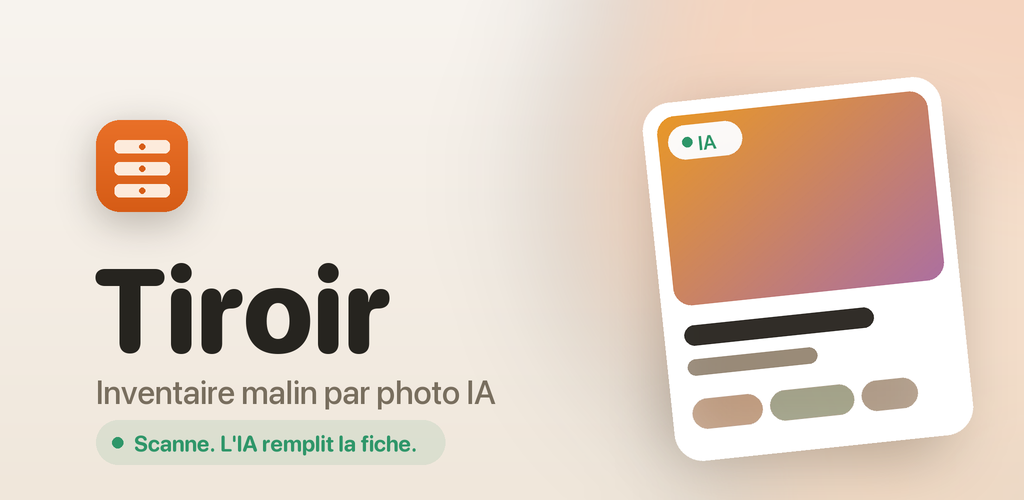
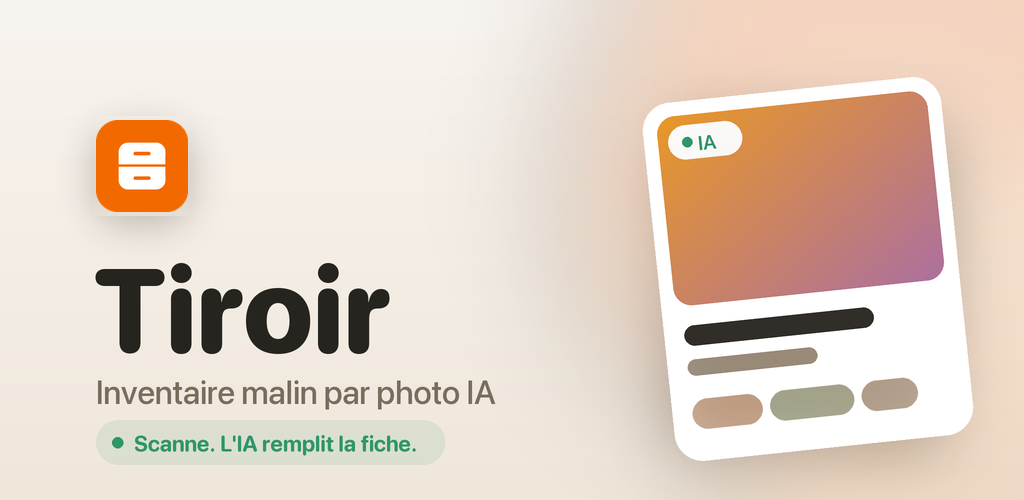
feat(marque): nouvelle icône, une commode à deux tiroirs
L'ancienne icône était un rendu 3D : superbe à 1024 px, une tache à
29 pt — la taille à laquelle Réglages et Spotlight l'affichent
réellement. Elle ne survivait pas non plus au masque rond d'Android,
qui rogne bien plus que le squircle iOS.

Le nouveau mannequin obéit à deux règles :

  - tout tient dans le CERCLE INSCRIT, pas dans le carré. Rond,
    squircle, trèfle : ce qui déborde est perdu quelque part ;

  - la fente entre les deux tiroirs est un VIDE laissant voir le fond,
    pas un trait posé dessus. Un trait fin disparaît à la réduction ;
    un vide ronge ses voisins et reste lisible jusqu'au bout.

Deux tiroirs et non trois : à petite taille, trois barres horizontales
redeviennent le pictogramme « menu », ou celui d'une base de données.

Le premier plan Android est dessiné à 72/108 de la taille iOS. Ce n'est
pas une marge de sécurité arbitraire mais le rapport exact qui donne
aux deux plateformes la même taille apparente une fois le masque
appliqué. S'ajoute la variante monochrome (Android 13+), dont les
poignées sont de vrais trous : le système ne lit que le canal alpha.

Le splash et le visuel Play sont RETOUCHÉS, pas régénérés — un point
vert isolé vit sous le mannequin du splash, et le dégradé du visuel
Play ne se reconstitue pas de mémoire.

Tout sort d'un seul script, qui est désormais la source de vérité :
retoucher une icône à la main la désynchroniserait des dix autres.

Changed region(s): [[0.0938, 0.24, 0.1875, 0.45]]

diff --git a/web/pages/_document.tsx b/web/pages/_document.tsx
@@ -29,10 +29,14 @@ export default class MyDocument extends Document<{ locale: string }> {
           <meta name="theme-color" content="#F26900" />
           <meta name="color-scheme" content="light dark" />
 
-          {/* Favicon / PWA (optionnel, mets tes fichiers si dispo) */}
-          {/* <link rel="icon" href="/favicon.ico" /> */}
-          {/* <link rel="apple-touch-icon" href="/apple-touch-icon.png" /> */}
-          {/* <link rel="manifest" href="/manifest.webmanifest" /> */}
+          {/* Favicon. Le .ico embarque 16 → 256 px : les onglets, la barre
+              des tâches et les raccourcis ne piochent pas la même taille,
+              et un .ico à résolution unique se fait redimensionner par le
+              système, qui le fait mal. Le SVG passe devant quand le
+              navigateur le sait — il reste net à toutes les densités. */}
+          <link rel="icon" href="/favicon.ico" sizes="any" />
+          <link rel="icon" href="/logo-tiroir.svg" type="image/svg+xml" />
+          <link rel="apple-touch-icon" href="/apple-touch-icon.png" />
         </Head>
         <body>
           {/* Pas de Tamagui ici */}

diff --git a/web/components/layout/HeaderTiroirWeb.tsx b/web/components/layout/HeaderTiroirWeb.tsx
@@ -202,7 +202,7 @@ export default function HeaderTiroirWeb() {
           {/* Logo */}
           <Link href="/" legacyBehavior passHref>
             <a className="ti-logo">
-              <img className="ti-logo__box" src="/icons/app-icon-v2.png" alt="" width={32} height={32} />
+              <img className="ti-logo__box" src="/icons/app-icon.png" alt="" width={32} height={32} />
               <strong className="ti-logo__text">TiROiR</strong>
             </a>
           </Link>
@@ -301,7 +301,7 @@ export default function HeaderTiroirWeb() {
           <div className="ti-mobile-menu__header">
             <Link href="/" legacyBehavior passHref>
               <a className="ti-logo" onClick={() => setMenuOpen(false)}>
-                <img className="ti-logo__box" src="/icons/app-icon-v2.png" alt="" width={32} height={32} />
+                <img className="ti-logo__box" src="/icons/app-icon.png" alt="" width={32} height={32} />
                 <strong className="ti-logo__text">TiROiR</strong>
               </a>
             </Link>

diff --git a/web/pages/inscription.tsx b/web/pages/inscription.tsx
@@ -56,7 +56,7 @@ export default function Inscription() {
         <div style={s.card}>
           <div style={s.logo}>
             {/* eslint-disable-next-line @next/next/no-img-element */}
-            <img src="/icons/app-icon-v2.png" alt="" width={36} height={36} style={{ borderRadius: 10 }} />
+            <img src="/icons/app-icon.png" alt="" width={36} height={36} style={{ borderRadius: 10 }} />
             <strong style={s.logoText}>Tiroir</strong>
           </div>
           <h1 style={s.title}>Créer un compte</h1>

diff --git a/web/pages/login.tsx b/web/pages/login.tsx
@@ -46,7 +46,7 @@ export default function Login() {
       <div style={s.card}>
         <div style={s.logo}>
           {/* eslint-disable-next-line @next/next/no-img-element */}
-          <img src="/icons/app-icon-v2.png" alt="" width={36} height={36} style={{ borderRadius: 10 }} />
+          <img src="/icons/app-icon.png" alt="" width={36} height={36} style={{ borderRadius: 10 }} />
           <strong style={s.logoText}>Tiroir</strong>
         </div>
         <h1 style={s.title}>Connexion</h1>

diff --git a/web/pages/nouveau-mot-de-passe.tsx b/web/pages/nouveau-mot-de-passe.tsx
@@ -87,7 +87,7 @@ export default function NouveauMotDePasse() {
         <div style={s.card}>
           <div style={s.logo}>
             {/* eslint-disable-next-line @next/next/no-img-element */}
-            <img src="/icons/app-icon-v2.png" alt="" width={36} height={36} style={{ borderRadius: 10 }} />
+            <img src="/icons/app-icon.png" alt="" width={36} height={36} style={{ borderRadius: 10 }} />
             <strong style={s.logoText}>Tiroir</strong>
           </div>
 

diff --git a/web/pages/mot-de-passe-oublie.tsx b/web/pages/mot-de-passe-oublie.tsx
@@ -36,7 +36,7 @@ export default function MotDePasseOublie() {
         <div style={s.card}>
           <div style={s.logo}>
             {/* eslint-disable-next-line @next/next/no-img-element */}
-            <img src="/icons/app-icon-v2.png" alt="" width={36} height={36} style={{ borderRadius: 10 }} />
+            <img src="/icons/app-icon.png" alt="" width={36} height={36} style={{ borderRadius: 10 }} />
             <strong style={s.logoText}>Tiroir</strong>
           </div>
 

diff --git a/web/pages/email-confirme.tsx b/web/pages/email-confirme.tsx
@@ -36,7 +36,7 @@ export default function EmailConfirme() {
         <div style={s.card}>
           <div style={s.logo}>
             {/* eslint-disable-next-line @next/next/no-img-element */}
-            <img src="/icons/app-icon-v2.png" alt="" width={36} height={36} style={{ borderRadius: 10 }} />
+            <img src="/icons/app-icon.png" alt="" width={36} height={36} style={{ borderRadius: 10 }} />
             <strong style={s.logoText}>Tiroir</strong>
           </div>
 

diff --git a/web/pages/bienvenue.tsx b/web/pages/bienvenue.tsx
@@ -17,7 +17,7 @@ export default function Bienvenue() {
         <div style={s.card}>
           <div style={s.logo}>
             {/* eslint-disable-next-line @next/next/no-img-element */}
-            <img src="/icons/app-icon-v2.png" alt="" width={36} height={36} style={{ borderRadius: 10 }} />
+            <img src="/icons/app-icon.png" alt="" width={36} height={36} style={{ borderRadius: 10 }} />
             <strong style={s.logoText}>Tiroir</strong>
           </div>
 

diff --git a/web/components/layout/FooterTiroirWeb.tsx b/web/components/layout/FooterTiroirWeb.tsx
@@ -47,7 +47,7 @@ export default function FooterTiroirWeb() {
           <div className="ti-footer__brand">
             <Link href="/" legacyBehavior passHref>
               <a className="ti-footer__logo">
-                <img src="/icons/app-icon-v2.png" alt="" width={36} height={36} />
+                <img src="/icons/app-icon.png" alt="" width={36} height={36} />
                 <strong>TiROiR</strong>
               </a>
             </Link>

diff --git a/mobile/scripts/build-brand-assets.py b/mobile/scripts/build-brand-assets.py
@@ -1,0 +1,268 @@
+#!/usr/bin/env python3
+"""
+Génère TOUS les visuels de marque Tiroir à partir d'une seule géométrie.
+
+    python3 scripts/build-brand-assets.py
+
+Le mannequin : une commode à deux tiroirs. Un bloc blanc fendu une fois,
+deux poignées. C'est tout, et c'est voulu — l'icône doit survivre à 29 pt
+(Réglages, Spotlight), taille à laquelle un trait de 30 px sur 1024 fait
+0,85 pixel.
+
+Deux règles gouvernent le dessin :
+
+  - Tout tient dans le CERCLE INSCRIT, pas dans le carré. Android découpe
+    en rond, watchOS aussi, le Play Store aussi. Ce qui dépasse du cercle
+    est perdu quelque part.
+
+  - La fente entre les deux tiroirs est un VIDE laissant voir le fond, et
+    non un trait posé dessus. Un trait fin disparaît à la réduction ; un
+    vide, jamais — il ronge ses voisins et reste lisible jusqu'au bout.
+
+Pourquoi deux tiroirs et pas trois : à petite taille, trois barres
+horizontales redeviennent le pictogramme « menu », ou celui d'une base de
+données. Deux blocs inégaux séparés par une fente n'appartiennent qu'au
+meuble.
+
+Ce fichier est la SOURCE DE VÉRITÉ du mannequin. Modifier une icône à la
+main la désynchronise des dix autres : rejouer le script à la place.
+"""
+import os
+import xml.sax.saxutils as esc
+from PIL import Image, ImageDraw
+
+ICI = os.path.dirname(os.path.abspath(__file__))
+MOBILE = os.path.dirname(ICI)
+WEB = os.path.join(os.path.dirname(MOBILE), 'web')
+
+# `theme-color` du site vaut déjà #F26900 : l'icône s'aligne dessus plutôt
+# que l'inverse. Le #FB6B14 d'origine était trop clair — le blanc posé
+# dessus vibrait au lieu de trancher.
+ORANGE = (242, 105, 0)
+BLANC = (255, 255, 255)
+VERT_SPLASH = (45, 80, 22)      # relevé au pixel sur le splash existant
+CREME_SPLASH = (247, 243, 238)
+
+SS = 4                          # suréchantillonnage : Pillow ne lisse pas les arrondis
+
+
+# ── Le mannequin ─────────────────────────────────────────────────────
+# Toutes les mesures sont exprimées en fraction de son côté, pour qu'un
+# seul jeu de nombres serve du favicon 16 px au splash 1284 px.
+COTE_RATIO = 520 / 1024         # part du côté occupée dans une icône carrée
+RAYON = 0.200                   # arrondi des façades
+FENTE_Y, FENTE_H = -0.0346, 0.050
+HAUT, BAS = -0.500, 0.500
+POIGNEE_DEMI, POIGNEE_EP = 0.1827, 0.0365
+
+
+def mannequin(d, cx, cy, cote, encre, creux, ss=1):
+    """Dessine la commode centrée sur (cx, cy), de côté `cote`.
+
+    `encre`  : la couleur des façades.
+    `creux`  : celle des poignées et de la fente — le fond, ou une
+               transparence si l'on veut de vrais trous.
+    """
+    def u(v):
+        return v * cote
+
+    def rr(x0, y0, x1, y1, rad, fill):
+        d.rounded_rectangle([(cx + u(x0)) * ss, (cy + u(y0)) * ss,
+                             (cx + u(x1)) * ss, (cy + u(y1)) * ss],
+                            radius=u(rad) * ss, fill=fill)
+
+    demi = 0.5
+    bas_fente = FENTE_Y + FENTE_H
+
+    # Chaque façade est un rectangle arrondi dont on redresse le bord
+    # intérieur : sans ça, la fente aurait quatre coins ronds et se
+    # lirait comme un espacement, pas comme une séparation de meuble.
+    rr(-demi, HAUT, demi, FENTE_Y, RAYON, encre)
+    d.rectangle([(cx + u(-demi)) * ss, (cy + u(FENTE_Y - RAYON)) * ss,
+                 (cx + u(demi)) * ss, (cy + u(FENTE_Y)) * ss], fill=encre)
+    rr(-demi, bas_fente, demi, BAS, RAYON, encre)
+    d.rectangle([(cx + u(-demi)) * ss, (cy + u(bas_fente)) * ss,
+                 (cx + u(demi)) * ss, (cy + u(bas_fente + RAYON)) * ss], fill=encre)
+
+    # La fente, en dernier : elle recreuse ce que les deux redressements
+    # ci-dessus ont rempli.
+    d.rectangle([(cx + u(-demi)) * ss, (cy + u(FENTE_Y)) * ss,
+                 (cx + u(demi)) * ss, (cy + u(bas_fente)) * ss], fill=creux)
+
+    # Chaque poignée est centrée dans SA façade. Décalée, même de 2 %,
+    # elle casse le rythme vertical que l'œil lit en premier.
+    for centre in ((HAUT + FENTE_Y) / 2, (bas_fente + BAS) / 2):
+        rr(-POIGNEE_DEMI, centre - POIGNEE_EP,
+           POIGNEE_DEMI, centre + POIGNEE_EP, POIGNEE_EP, creux)
+
+
+def icone(taille, fond, encre=BLANC, part=COTE_RATIO, mode='RGB'):
+    """Une icône carrée complète, mannequin centré."""
+    W = taille * SS
+    img = Image.new(mode, (W, W), fond)
+    d = ImageDraw.Draw(img)
+    mannequin(d, taille / 2, taille / 2, taille * part, encre, fond, ss=SS)
+    return img.resize((taille, taille), Image.LANCZOS)
+
+
+def ecrire(img, *chemin):
+    p = os.path.join(*chemin)
+    os.makedirs(os.path.dirname(p), exist_ok=True)
+    img.save(p)
+    print(f'  {os.path.relpath(p, os.path.dirname(MOBILE))}  ({img.width}×{img.height})')
+
+
+# ── iOS et l'icône racine ────────────────────────────────────────────
+# Sans canal alpha : l'App Store refuse une icône transparente, et c'est
+# une erreur de soumission, pas un avertissement.
+print('iOS / racine')
+ecrire(icone(1024, ORANGE), MOBILE, 'assets', 'icon.png')
+ecrire(icone(48, ORANGE), MOBILE, 'assets', 'favicon.png')
+
+# ── Android, icône adaptative ────────────────────────────────────────
+# Le premier plan fait 108 dp, mais seuls les 72 dp centraux sont
+# garantis visibles : le lanceur rogne le reste, et les masques ronds
+# rognent encore. Dessiner le mannequin à sa taille iOS le ferait
+# déborder.
+#
+# Le facteur 72/108 n'est pas une marge de sécurité arbitraire : c'est
+# exactement le rapport qui donne à l'icône Android la MÊME taille
+# apparente qu'à l'iOS une fois le masque appliqué.
+ANDROID_PART = COTE_RATIO * 72 / 108
+print('Android')
+ecrire(icone(1024, (0, 0, 0, 0), BLANC, ANDROID_PART, mode='RGBA'),
+       MOBILE, 'assets', 'android-icon-foreground.png')
+
+# Le fond d'une icône adaptative est UNI, sans mannequin : le lanceur le
+# fait glisser derrière le premier plan pour l'effet de parallaxe. Y
+# remettre le meuble donnerait deux commodes désalignées dès que
+# l'utilisateur incline son téléphone.
+ecrire(Image.new('RGB', (1024, 1024), ORANGE),
+       MOBILE, 'assets', 'android-icon-background.png')
+
+# Monochrome (Android 13+, icônes teintées) : le système ne lit QUE le
+# canal alpha et applique sa propre couleur. Les poignées et la fente
+# doivent donc être de vrais trous — remplies de noir, elles
+# disparaîtraient sous la teinte.
+ecrire(icone(1024, (0, 0, 0, 0), (0, 0, 0, 255), ANDROID_PART, mode='RGBA'),
+       MOBILE, 'assets', 'android-icon-monochrome.png')
+
+# ── Splash ───────────────────────────────────────────────────────────
+# Le splash s'affiche juste après l'appui sur l'icône. Si le mannequin y
+# diffère, la transition casse — d'où la reprise de la nouvelle forme.
+#
+# On REPEINT la zone du meuble plutôt que de régénérer l'image : un point
+# vert isolé vit plus bas dans la composition, et le redessiner de
+# mémoire le décalerait. La couleur reste le vert d'origine : passer le
+# splash à l'orange est une décision de marque, pas une mise à jour
+# d'icône.
+print('Splash')
+SPLASH_CX, SPLASH_CY, SPLASH_COTE = 642, 1328, 152
+
+splash = Image.open(os.path.join(MOBILE, 'assets', 'splash-icon.png')).convert('RGB')
+ImageDraw.Draw(splash).rectangle([520, 1220, 764, 1425], fill=CREME_SPLASH)
+
+# Le tampon est TRANSPARENT, pas rempli de crème : un carré opaque de la
+# taille du mannequin déborderait sur le point vert qui vit une centaine
+# de pixels plus bas et l'effacerait sans bruit. Les poignées et la fente
+# deviennent de vrais trous, à travers lesquels le fond d'origine
+# reparaît — ce qui donne exactement le même rendu, sans rien recouvrir.
+zone, marge = 4, 40
+n = SPLASH_COTE + 2 * marge
+tampon = Image.new('RGBA', (n * zone, n * zone), (0, 0, 0, 0))
+mannequin(ImageDraw.Draw(tampon), n / 2, n / 2, SPLASH_COTE,
+          VERT_SPLASH + (255,), (0, 0, 0, 0), ss=zone)
+tampon = tampon.resize((n, n), Image.LANCZOS)
+splash.paste(tampon, (SPLASH_CX - n // 2, SPLASH_CY - n // 2), tampon)
+ecrire(splash, MOBILE, 'assets', 'splash-icon.png')
+
+# ── Visuel de mise en avant Google Play ──────────────────────────────
+# La composition marketing est conservée telle quelle : on n'y remplace
+# que la vignette d'icône, relevée au pixel (92 × 92 en (96, 120)).
+#
+# Le fond derrière la vignette est un dégradé. Le combler d'une couleur
+# unie laisserait une tache rectangulaire visible ; on interpole donc
+# chaque ligne entre les deux pixels sains qui l'encadrent — le dégradé
+# étant lisse et surtout horizontal, la reprise est invisible.
+print('Store Android')
+FG_X, FG_Y, FG_N, FG_RAD = 96, 120, 92, 22
+fg_path = os.path.join(MOBILE, 'assets', 'store', 'feature-graphic.png')
+feat = Image.open(fg_path).convert('RGB')
+fpx = feat.load()
+gauche, droite = FG_X - 4, FG_X + FG_N + 3
+for y in range(FG_Y - 4, FG_Y + FG_N + 4):
+    a, b = fpx[gauche, y], fpx[droite, y]
+    for x in range(gauche + 1, droite):
+        t = (x - gauche) / (droite - gauche)
+        fpx[x, y] = tuple(round(a[k] + (b[k] - a[k]) * t) for k in range(3))
+
+z = 8
+vign = Image.new('RGBA', (FG_N * z, FG_N * z), (0, 0, 0, 0))
+dv = ImageDraw.Draw(vign)
+dv.rounded_rectangle([0, 0, FG_N * z, FG_N * z], radius=FG_RAD * z, fill=ORANGE + (255,))
+mannequin(dv, FG_N / 2, FG_N / 2, FG_N * COTE_RATIO, BLANC + (255,), ORANGE + (255,), ss=z)
+vign = vign.resize((FG_N, FG_N), Image.LANCZOS)
+feat.paste(vign, (FG_X, FG_Y), vign)
+ecrire(feat, MOBILE, 'assets', 'store', 'feature-graphic.png')
+
+# ── Web ──────────────────────────────────────────────────────────────
+print('Web')
+ecrire(icone(256, ORANGE), WEB, 'public', 'icons', 'app-icon.png')
+ecrire(icone(180, ORANGE), WEB, 'public', 'apple-touch-icon.png')
+
+# Le .ico embarque plusieurs résolutions : Windows, les onglets et les
+# raccourcis ne piochent pas la même. Un .ico à une seule taille se fait
+# redimensionner par le système, qui le fait mal.
+ico = icone(256, ORANGE)
+ico.save(os.path.join(WEB, 'public', 'favicon.ico'), format='ICO',
+         sizes=[(16, 16), (32, 32), (48, 48), (64, 64), (128, 128), (256, 256)])
+print('  web/public/favicon.ico  (16 → 256)')
+
+
+def svg():
+    """Le master vectoriel : mêmes nombres, exprimés en SVG.
+
+    Les poignées et la fente sont peintes en orange plutôt que découpées
+    par un masque — un masque SVG se comporte mal dans les clients mail
+    et les vieux moteurs, et le fond est de toute façon plein.
+    """
+    S = 1024
+    c, cote = S / 2, S * COTE_RATIO
+
+    def u(v):
+        return round(c + v * cote, 2)
+
+    o = f'rgb{ORANGE}'.replace(' ', '')
+    b = f'rgb{BLANC}'.replace(' ', '')
+    rad = round(RAYON * cote, 2)
+    ep = round(POIGNEE_EP * cote, 2)
+    bas_fente = FENTE_Y + FENTE_H
+    parts = [
+        f'<rect width="{S}" height="{S}" fill="{o}"/>',
+        f'<rect x="{u(-0.5)}" y="{u(HAUT)}" width="{round(cote, 2)}" '
+        f'height="{round((FENTE_Y - HAUT) * cote, 2)}" rx="{rad}" fill="{b}"/>',
+        f'<rect x="{u(-0.5)}" y="{u(bas_fente)}" width="{round(cote, 2)}" '
+        f'height="{round((BAS - bas_fente) * cote, 2)}" rx="{rad}" fill="{b}"/>',
+    ]
+    # Les bords intérieurs, redressés : deux bandeaux qui remplissent les
+    # arrondis tournés vers la fente.
+    for y0, y1 in ((FENTE_Y - RAYON, FENTE_Y), (bas_fente, bas_fente + RAYON)):
+        parts.append(f'<rect x="{u(-0.5)}" y="{u(y0)}" width="{round(cote, 2)}" '
+                     f'height="{round((y1 - y0) * cote, 2)}" fill="{b}"/>')
+    for centre in ((HAUT + FENTE_Y) / 2, (bas_fente + BAS) / 2):
+        parts.append(
+            f'<rect x="{u(-POIGNEE_DEMI)}" y="{u(centre - POIGNEE_EP)}" '
+            f'width="{round(2 * POIGNEE_DEMI * cote, 2)}" height="{round(2 * ep, 2)}" '
+            f'rx="{ep}" fill="{o}"/>')
+    # Ni width ni height : seul le viewBox. Le fichier sert à la fois de
+    # favicon et de logo dans les pages ; une taille intrinsèque de
+    # 1024 px obligerait chaque usage à la contredire en CSS.
+    return (f'<svg xmlns="http://www.w3.org/2000/svg" viewBox="0 0 {S} {S}" '
+            f'role="img" aria-label={esc.quoteattr("Tiroir")}>\n  '
+            + '\n  '.join(parts) + '\n</svg>\n')
+
+
+chemin_svg = os.path.join(WEB, 'public', 'logo-tiroir.svg')
+with open(chemin_svg, 'w') as f:
+    f.write(svg())
+print('  web/public/logo-tiroir.svg  (vectoriel)')
